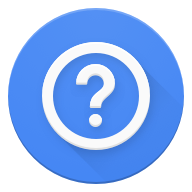
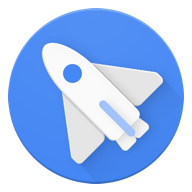
Modified help app metadata.
Changed app name to Discover instead of Help App.
Changed help icon to discover icon, added 512px icon.
Set title bar to white.

Bug: b/149429818
Commit-Queue: Callistus Tan <callistus@google.com>
Cr-Commit-Position: refs/heads/master@{#742403}

diff --git a/chromeos/components/help_app_ui/resources/index.html b/chromeos/components/help_app_ui/resources/index.html
@@ -3,7 +3,7 @@
      found in the LICENSE file. -->
 <!DOCTYPE html>
 <meta charset="utf-8">
-<title>Help App</title>
+<title>&#xFEFF;</title>
 <style>
   body {
     height: 100vh;

diff --git a/chromeos/components/help_app_ui/help_app_ui.cc b/chromeos/components/help_app_ui/help_app_ui.cc
@@ -23,6 +23,7 @@ content::WebUIDataSource* CreateHostDataSource() {
   source->AddResourcePath("pwa.html", IDR_HELP_APP_PWA_HTML);
   source->AddResourcePath("manifest.json", IDR_HELP_APP_MANIFEST);
   source->AddResourcePath("app_icon_192.png", IDR_HELP_APP_ICON_192);
+  source->AddResourcePath("app_icon_512.png", IDR_HELP_APP_ICON_512);
   return source;
 }
 }  // namespace
